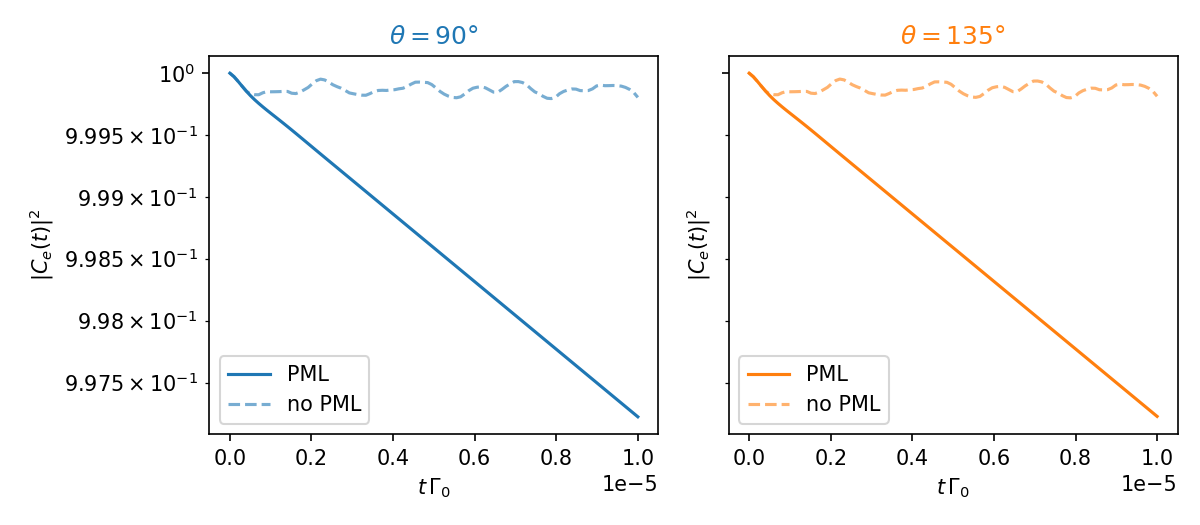
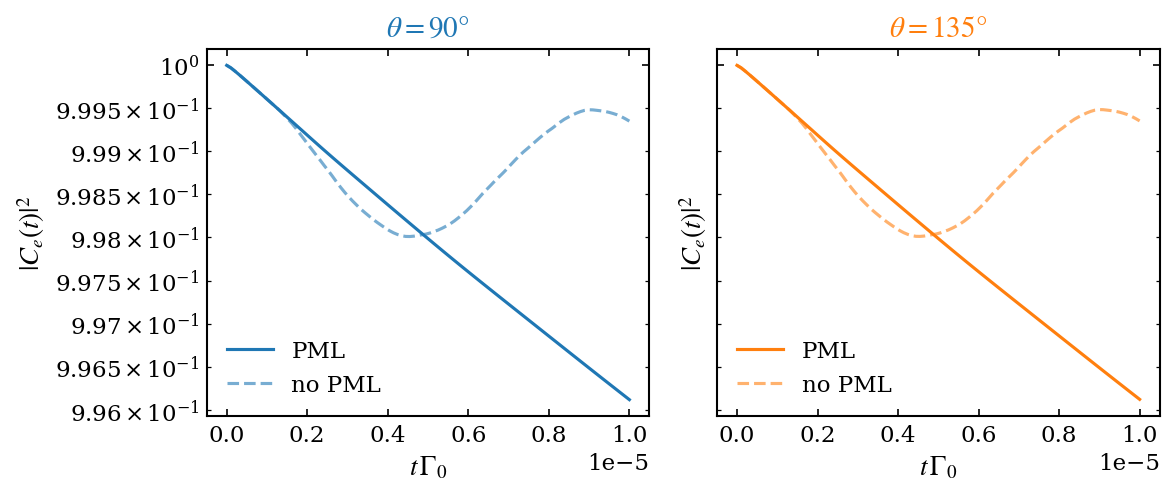
improve `pml_gif.py`

diff --git a/miscellaneous/pml_gif.py b/miscellaneous/pml_gif.py
@@ -7,6 +7,7 @@ Also saves a static plot of |C_e(t)|² for both cases to check for revivals.
 """
 
 import numpy as np
+import matplotlib
 import matplotlib.pyplot as plt
 import matplotlib.animation as animation
 import pythtb as tb
@@ -35,8 +36,8 @@ ROW_LABELS: list = ["PML", "no PML"]
 
 LAT: list = [[1, 0], [0, 1]]
 ORB: list = [[0, 0]]
-N_CELLS: int = 11
-N_PML: int = 2
+N_CELLS: int = 41
+N_PML: int = 5
 GAMMA_MAX: float = 0.05  # [c/a]
 J_0: float = 0.07755639
 J_1: float = -0.01993698
@@ -193,6 +194,18 @@ for row, (pops, row_label) in enumerate(zip(all_pops, ROW_LABELS)):
         sc = ax.pcolormesh(xs_f, ys_f, pops[col][0], vmin=0, vmax=vmax)
         fig.colorbar(sc, ax=ax, label=r"$|C_\mathbf{R}(t)|^2$")
         mf.draw_arrow(ax, R_0, theta, color=DIP_COLORS[col], length=2, arrow_offset=0.2)
+        pml_boundary = N_CELLS // 2 - N_PML + 0.5
+        ax.add_patch(
+            matplotlib.patches.Rectangle(
+                (-pml_boundary, -pml_boundary),
+                2 * pml_boundary,
+                2 * pml_boundary,
+                fill=False,
+                edgecolor="white",
+                linewidth=1.5,
+                linestyle="--",
+            )
+        )
         ax.set(xlabel=r"$x/a$", ylabel=r"$y/a$", aspect="equal")
         title = ax.set_title(
             rf"{row_label} — $\theta = {np.rad2deg(theta):.0f}°$, "
